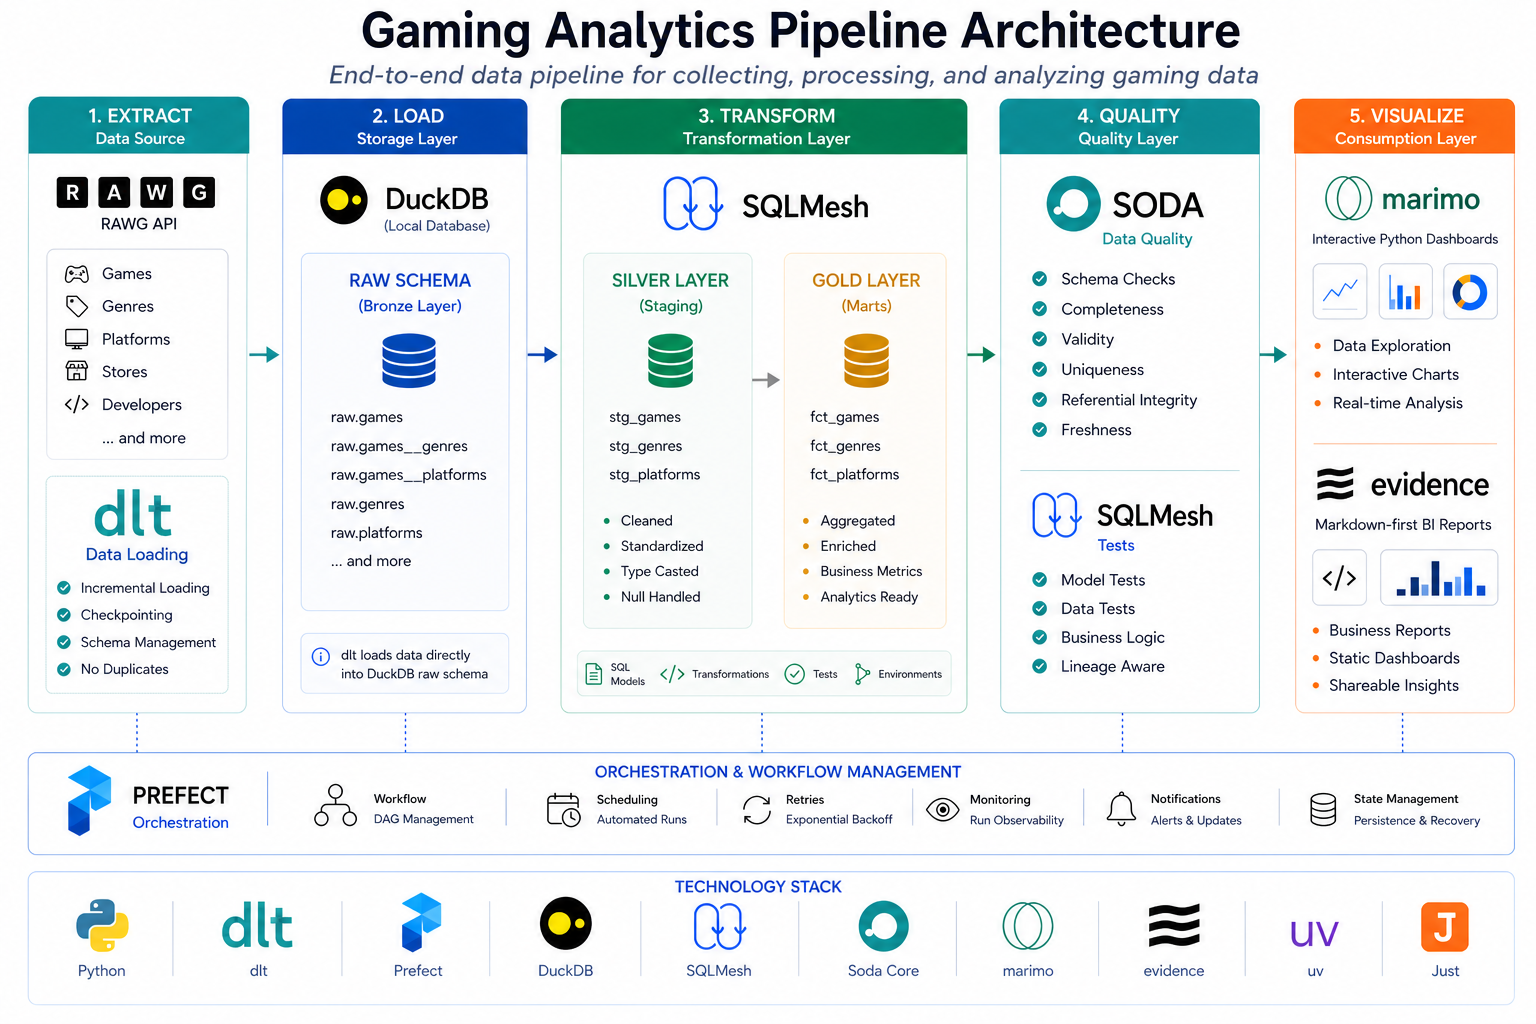
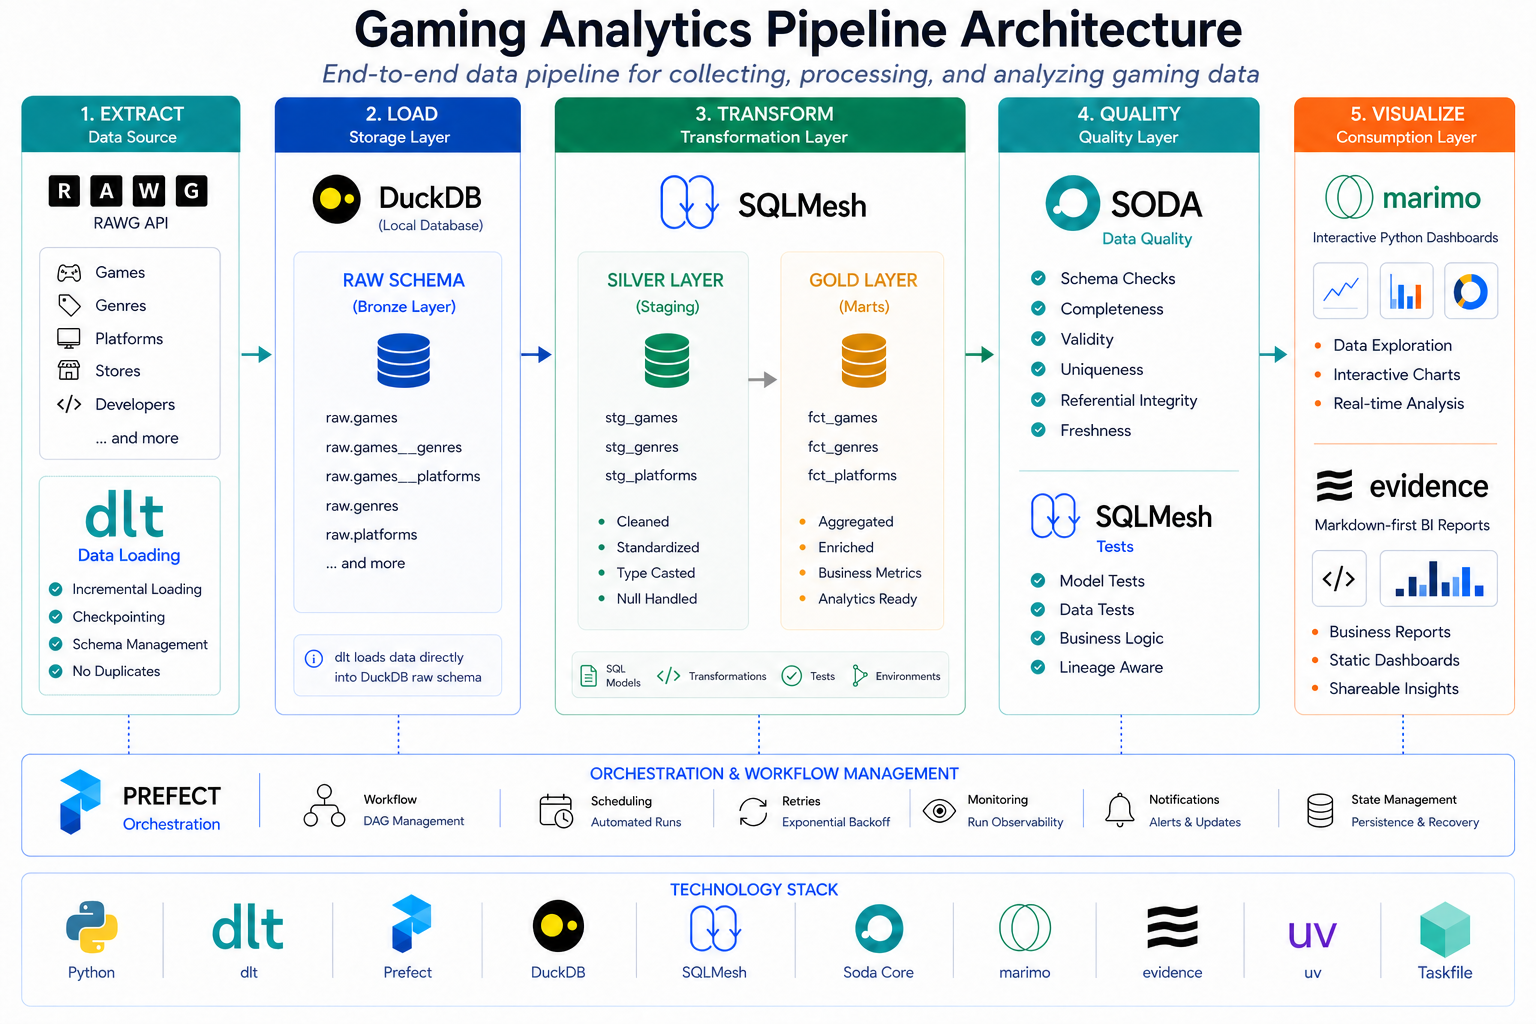
docs: update justfile references to task in README

diff --git a/AGENTS.md b/AGENTS.md
@@ -2,37 +2,38 @@
 
 ## Requirements
 
-- Python 3.12–3.13 (`requires-python = ">=3.12,<3.14"`)
+- Python 3.12–3.13 (`requires-python = ">=3.12,<3.14"`, `.python-version` pins `3.12`)
 - [uv](https://github.com/astral-sh/uv) package manager
+- [Taskfile](https://taskfile.dev) (`brew install go-task`)
 
 ## Entry Points
 
-- **Pipeline run**: `uv run python main.py`
-- **Marimo**: `uv run marimo edit marimo/gaming_analytics.py --headless --host 0.0.0.0 --port 2718 --no-token`
-- **Evidence**: `just evidence` (Node 22 required via fnm)
-- **SQLMesh**: Must `cd sqlmesh` first: `cd sqlmesh && uv run sqlmesh <plan|apply|test|lint>`
+- **Pipeline run**: `task run` (or `uv run python main.py`)
+- **Marimo**: `task marimo`
+- **Evidence**: `task evidence` (Node 22 required via fnm)
+- **SQLMesh**: `task sqlmesh-plan|apply|test|lint` (Taskfile handles `cd sqlmesh` automatically)
 
 ## Dev Commands
 
 ```bash
-just install        # uv sync
-just lint          # uv run ruff check src/ tests/ (includes --select S)
-just format        # uv run ruff format src/ tests/
-just typecheck     # uv run ty check src/
-just test          # uv run pytest tests/ -v --no-cov (fast, no coverage)
-just test-cov      # uv run pytest tests/ -v --cov=src --cov-report=term-missing
-just sqlmesh-lint   # cd sqlmesh && uv run sqlmesh lint
-just sqlmesh-test  # cd sqlmesh && uv run sqlmesh test --verbose
-just sqlmesh-plan  # cd sqlmesh && uv run sqlmesh plan
-just sqlmesh-apply # cd sqlmesh && uv run sqlmesh plan --auto-apply
-just lint-full     # format → lint → lint-security → typecheck → sqlmesh-lint → lint-yaml
-just soda-scan     # uv run python -m gaming_pipeline.quality
-just db-reset      # deletes DuckDB + SQLMesh cache (prompts confirmation)
+task install        # uv sync
+task lint          # uv run ruff check src/ tests/
+task format        # uv run ruff format src/ tests/
+task typecheck     # uv run ty check src/
+task test          # uv run pytest tests/ -v --no-cov (fast, no coverage)
+task test-cov      # uv run pytest tests/ -v --cov=src --cov-report=term-missing
+task sqlmesh-lint   # cd sqlmesh && uv run sqlmesh lint
+task sqlmesh-test  # cd sqlmesh && uv run sqlmesh test --verbose
+task sqlmesh-plan  # cd sqlmesh && uv run sqlmesh plan
+task sqlmesh-apply # cd sqlmesh && uv run sqlmesh plan --auto-apply
+task lint-full     # format → lint → lint-security → typecheck → sqlmesh-lint → lint-yaml
+task soda-scan     # uv run python -m gaming_pipeline.quality
+task db-reset      # deletes DuckDB + SQLMesh cache (requires interactive TTY, type 'yes' to confirm)
 ```
 
 ## CI
 
-`just lint-full` auto-formats with `ruff format`; CI runs `ruff format --check` (read-only). Run `just lint-full` locally before committing.
+`task lint-full` auto-formats with `ruff format`; CI runs `ruff format --check` (read-only). Run `task lint-full` locally before committing.
 
 CI has 2 jobs: `lint` (format-check + lint + typecheck + sqlmesh-lint + yamllint) and `test` (pytest with coverage).
 
@@ -73,12 +74,12 @@ SQLMesh model locations:
 - sqlfluff enforces `capitalisation = lower` — all SQL keywords must be lowercase
 - sqlfluff uses `templater = raw` (SQLMesh uses custom Jinja-like syntax, not sqlfluff templates)
 - `.env` is gitignored; copy from `.env.example`
-- Evidence requires Node 22 (use `fnm use 22` or `just evidence` handles this)
-- SQLMesh gateway name is `local` (not `duckdb`); database path in `sqlmesh.yaml` is absolute
-- SQLMesh tests are `.sql` files in `sqlmesh/tests/`, run via `just sqlmesh-test` (not pytest)
+- Evidence requires Node 22 (use `fnm use 22` or `task evidence` handles this)
+- SQLMesh gateway name is `local` (not `duckdb`); database path in `sqlmesh.yaml` is **absolute** — must be updated per developer
+- SQLMesh tests are `.sql` files in `sqlmesh/tests/` using `-- Expected: 0` assertion pattern, run via `task sqlmesh-test` (not pytest)
 - Soda quality uses `verify_contract_locally` (Soda Core v4 contract API), not SodaCL scan files
-- Soda `data_source.yaml` uses relative path — `just soda-scan` must run from repo root
-- bare `pytest` runs with coverage by default (pyproject.toml `addopts`); use `just test` for fast runs or `pytest --no-cov` explicitly
+- Soda `data_source.yaml` uses relative path — `task soda-scan` must run from repo root
+- bare `pytest` runs with coverage by default (pyproject.toml `addopts`); use `task test` for fast runs or `pytest --no-cov` explicitly
 - yamllint ignores `.github/` and `sqlmesh/` — CI YAML and SQLMesh config are not linted by yamllint
 - `lint` already includes `S` (security) rules via ruff config; `lint-security` is a redundant explicit pass — both run in `lint-full`
 - pytest `integration` marker requires a running Prefect server; skip with `pytest -m "not integration"`

diff --git a/README.md b/README.md
@@ -47,7 +47,7 @@ This project demonstrates a modern data engineering stack with intentional tool 
 | **Dashboard (Tech)** | Marimo         | Reactive Python notebooks, interactive                                                      | Streamlit, Jupyter              |
 | **Dashboard (Biz)**  | Evidence       | Markdown-first BI, static HTML output, dual audience                                        | Rill, Metabase                  |
 | **Package Manager**  | uv             | 10-100x faster than pip, lockfile                                                           | pip, Poetry                     |
-| **Build Tool**       | Just           | Modern Make alternative, better errors                                                      | Make                            |
+| **Build Tool**       | Taskfile       | YAML-based, cross-platform, dependency-aware task runner                                    | Make, Just                      |
 
 This stack demonstrates **modern data engineering practices** while keeping the project accessible and reproducible.
 
@@ -82,7 +82,7 @@ This stack demonstrates **modern data engineering practices** while keeping the 
 
 **Solution**:
 - `uv` instead of `pip` (10-100x faster)
-- `Just` instead of `Make` (cleaner syntax)
+- `Taskfile` instead of `Make` (YAML-based, cross-platform)
 - `dlt` instead of custom scripts (battle-tested)
 
 ## 🚀 Quick Start
@@ -180,7 +180,7 @@ gaming-analytics-pipeline/
 ├── main.py                        # Pipeline entry point
 ├── pyproject.toml                 # Project dependencies & tool config
 ├── uv.lock                        # Dependency lock file
-├── justfile                       # Development commands
+├── Taskfile.yml                   # Development task runner
 └── sqlmesh/                       # SQLMesh project
     └── sqlmesh.yaml              # SQLMesh configuration
 ```
@@ -266,7 +266,7 @@ The pipeline runs in the following order:
 View Soda Core + SQLMesh quality results:
 
 ```bash
-just soda-scan
+task soda-scan
 ```
 
 Or run directly:
@@ -313,7 +313,7 @@ This project uses automated security scanning to ensure code and dependency safe
 
 ```bash
 # Run Ruff security rules
-just lint-security
+task lint-security
 ```
 
 ### Security Reports
